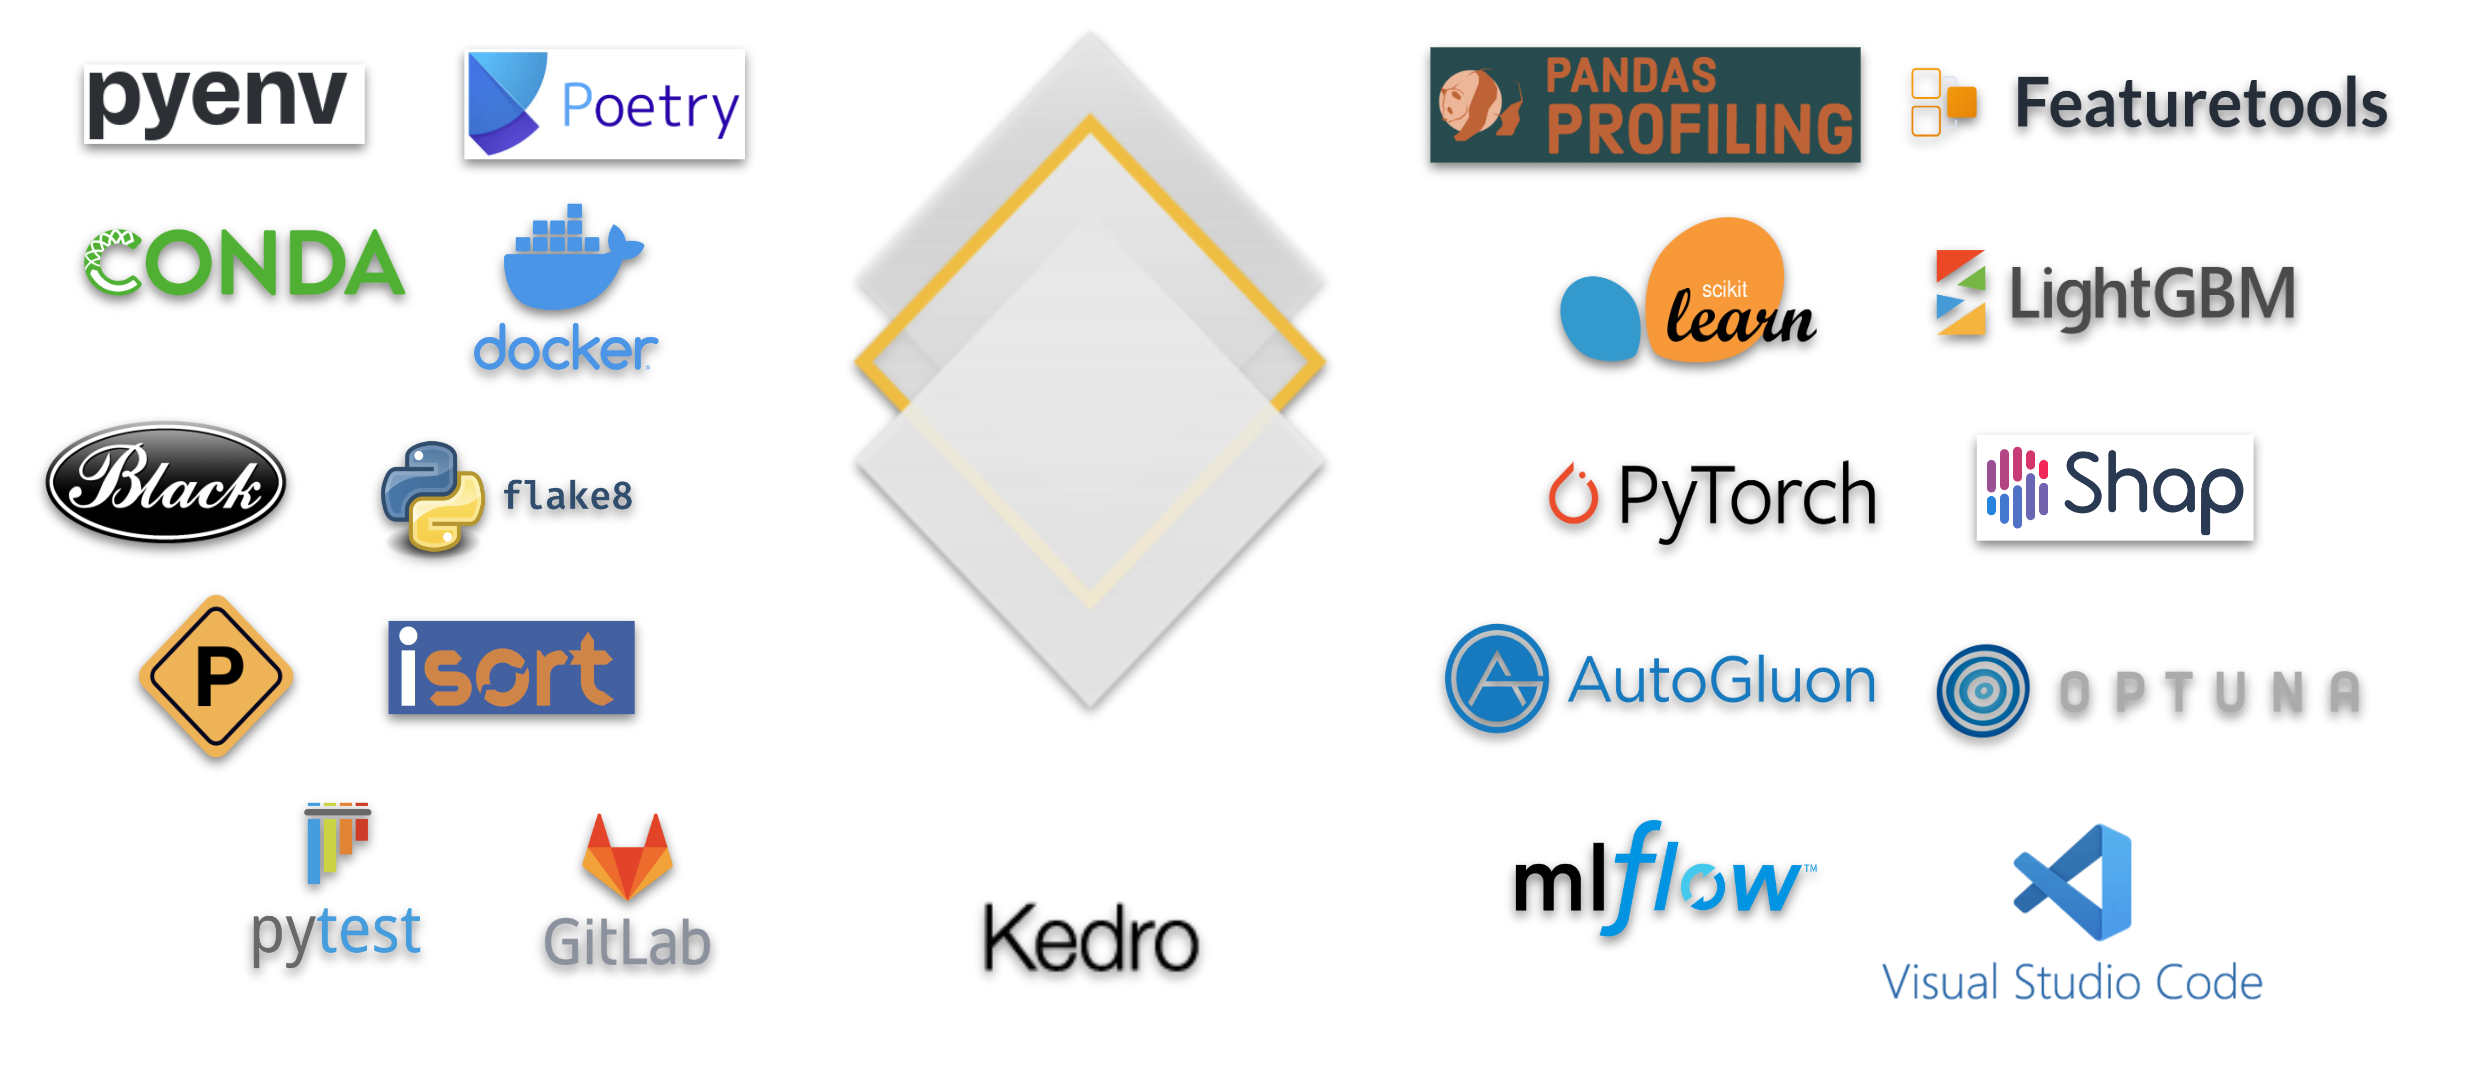
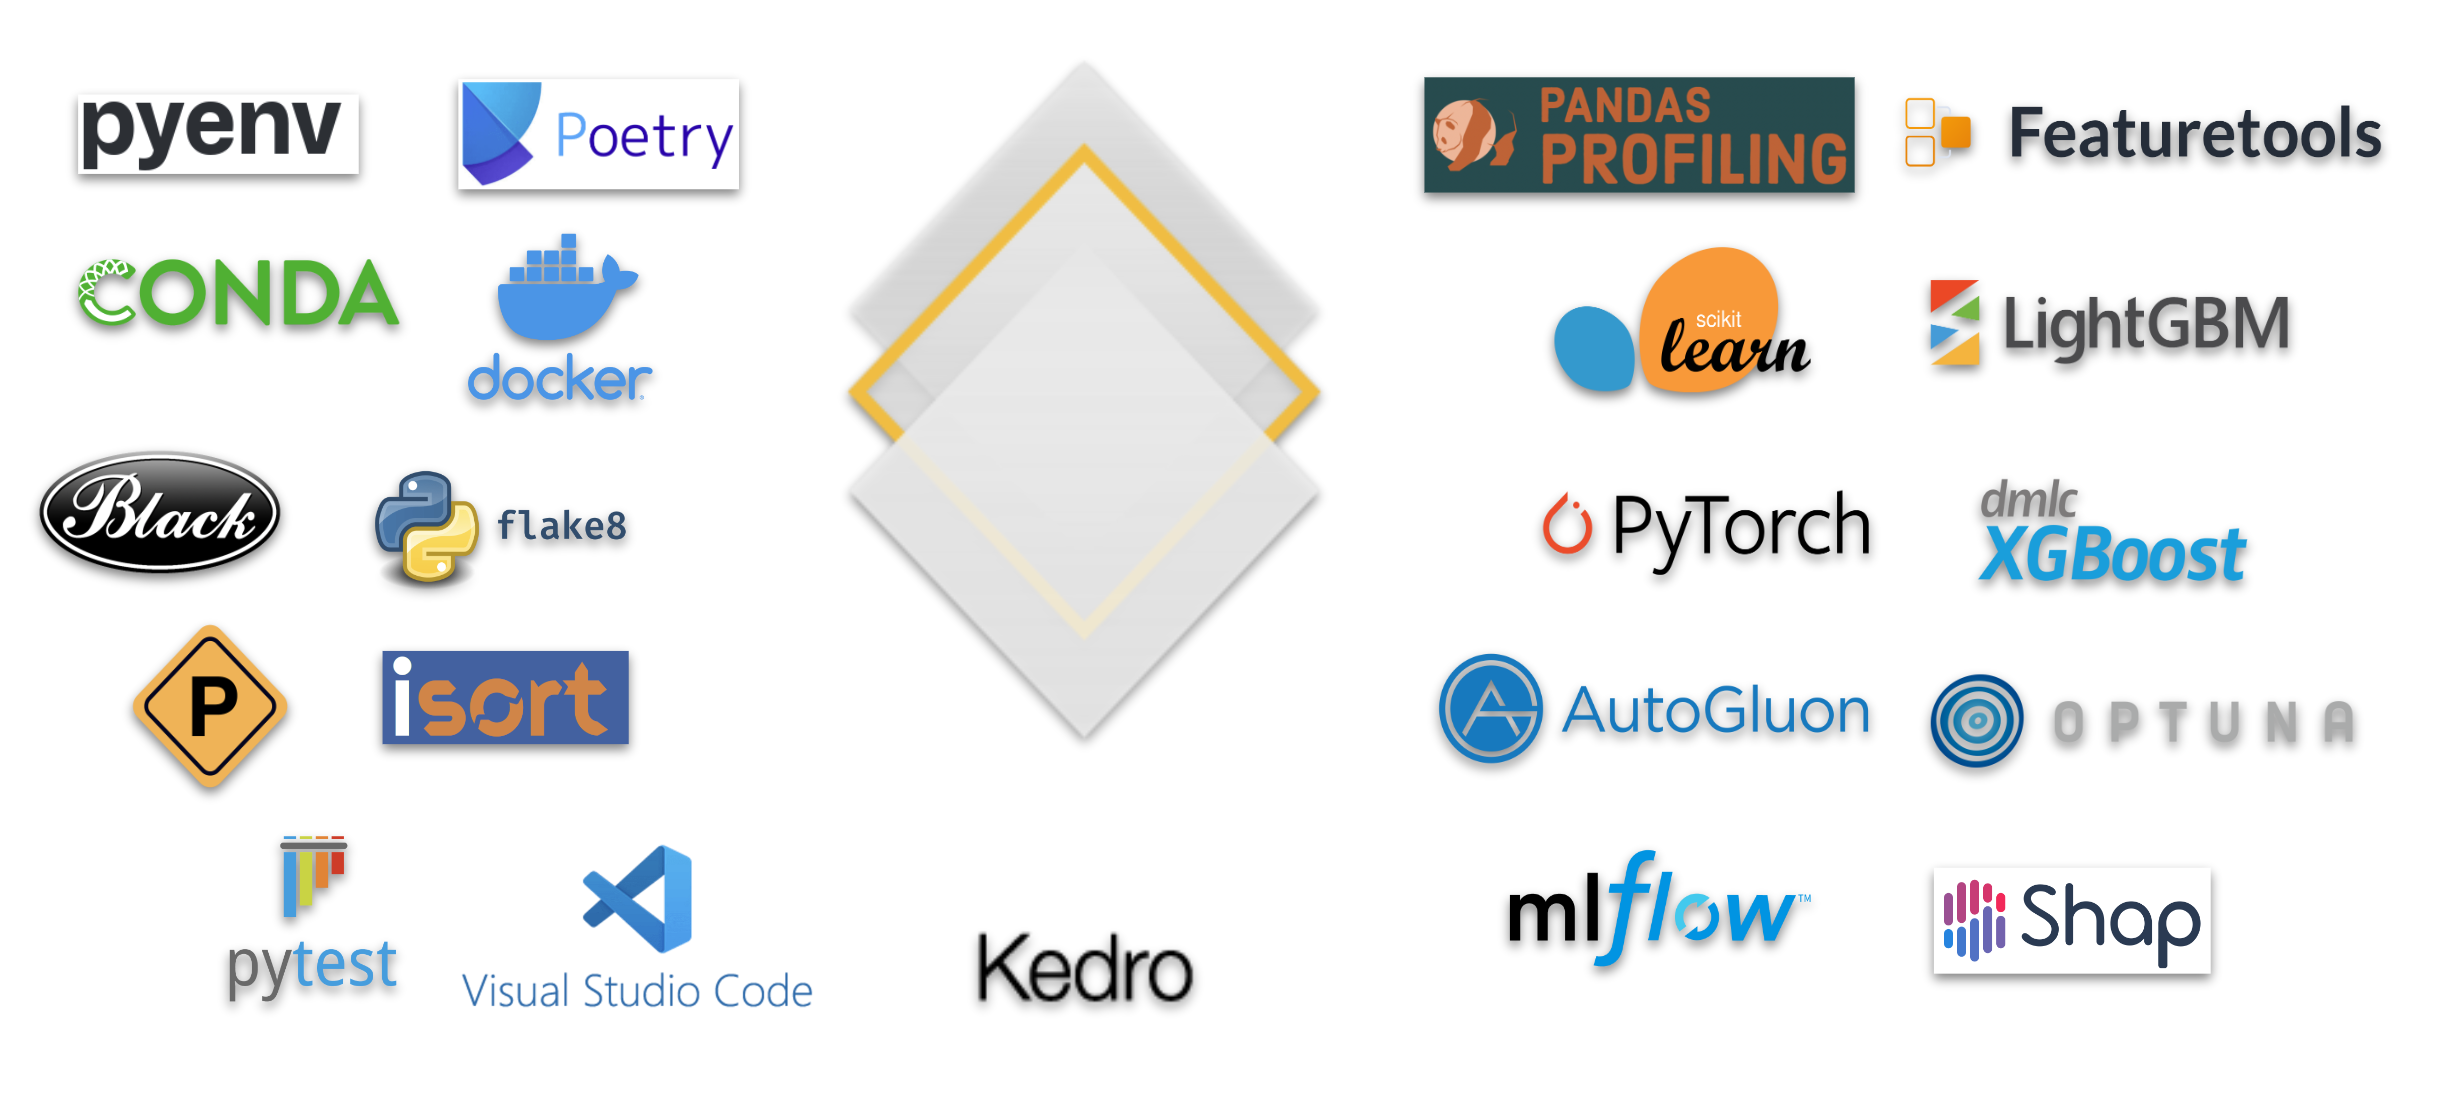
update readme

diff --git a/README.md b/README.md
@@ -46,7 +46,7 @@ GID ML Framework is a set of complete **use cases** that involve:
 - example datasets to work with
 
 So far the following use cases have been implemented:
-- propensity-to-by classification model ([ga4-mlops - TO BE UPDATED](https://gitlab.com/getindata/aa-labs/coe/gid-ml-framework/-/tree/main/ga4-mlops))
+- propensity-to-buy classification model on Google Analytics 4 data with additional MLOps components ([ga4-mlops - TO BE UPDATED](https://gitlab.com/getindata/aa-labs/coe/gid-ml-framework/-/tree/main/ga4-mlops))
 - retail recommender system on multimodal data (tabular, images, natural language descriptions) using ranking gradient boosting models ([recommender_ranking - TO BE UPDATED](https://gitlab.com/getindata/aa-labs/coe/gid-ml-framework/-/tree/main/recommender_ranking))
 - e-commerce recommender system on sequential data using Graph Neural Networks ([recommender_gnn - TO BE UPDATED](https://gitlab.com/getindata/aa-labs/coe/gid-ml-framework/-/tree/main/recommender_gnn))
 
@@ -58,7 +58,19 @@ Existing use cases are implemented in modular, modifiable and extensible way. Wh
 
 ## Technologies <a name="technologies"></a>
 
+To materialize ML development best practices as concrete working examples we use a modern technology stack. **Our main assumption is to stick to the state of the art, well-proven open source tooling.** We want the GID ML Framework to be applicable and adjustable to any MLOps architecture, so we avoid using commercial or proprietary software for essential functionalities.
+
 ![Technologies used so far](./docs/img/main/technologies.png)
+
+Excerpt of the technologies used so far in existing examples:
+- [Kedro](https://kedro.org/), which is the very core upon which the solutions are built. It introduces many essential features like appropriate project structure, modular node/pipeline architecture, well-organized configuration, customizable data catalog with connectors to many data sources, a wide variety of extensions and plugins that allow for integration with other tools and more.
+- Visual Studio Code with [Dev Containers](https://code.visualstudio.com/docs/devcontainers/containers) powered by Docker that enable creating encapsulated working environments with all necessary tooling that can be run and used in the same way no matter when they are deployed (access from local IDE to the working environment set up locally or in the cloud)
+- [Pyenv](https://github.com/pyenv/pyenv) and [Poetry](https://python-poetry.org/) for Python dependency management
+- GetInData Kedro plugins for running Kedro pipelines in different environments ([GCP](https://github.com/getindata/kedro-vertexai), [AWS](https://github.com/getindata/kedro-sagemaker), [Azure](https://github.com/getindata/kedro-azureml), [Kubeflow](https://github.com/getindata/kedro-kubeflow))
+- [MLflow](https://mlflow.org/) as an experiment tracker and model repository
+- A set of linters and code quality tools ([flake8](https://flake8.pycqa.org/en/latest/), [Black](https://black.readthedocs.io/en/stable/), [isort](https://pycqa.github.io/isort/), [pre-commit](https://pre-commit.com/))
+- [Pytest](https://docs.pytest.org/) framework for writing and executing unit/integration tests
+- A collection of Python packages for automated exploratory analysis ([Pandas Profiling](https://ydata-profiling.ydata.ai/docs/master/index.html), [Featuretools](https://www.featuretools.com/)), modeling ([LightGBM](https://lightgbm.readthedocs.io/), [PyTorch](https://pytorch.org/) and more), hyperprameter tuning ([Optuna](https://optuna.org/)) adn other purposes
 
 ## How to start <a name="howtostart"></a>
 
